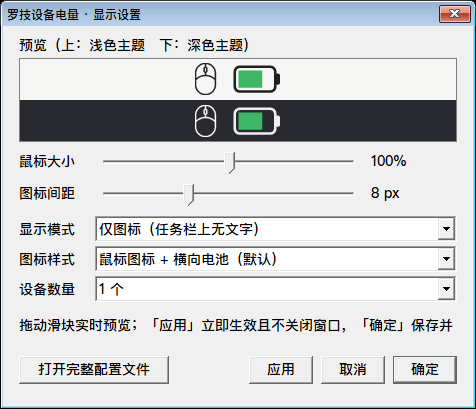
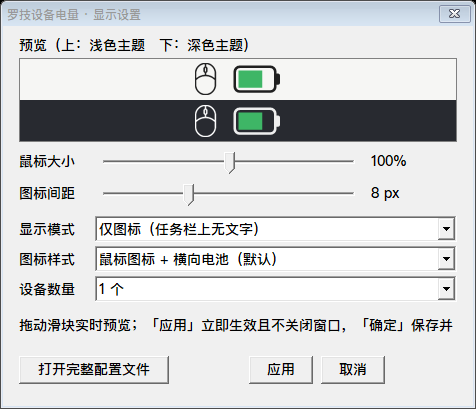
Add in-battery percentage mode (display_mode=3) and four number display options

Changed region(s): [[0.0, 0.0, 1.0, 1.0]]

diff --git a/src/battery_icon.cpp b/src/battery_icon.cpp
@@ -146,10 +146,34 @@ namespace {
         }
     }
 
+    // 电池内百分比：文字用主题色，描边取反色。
+    // 这样浅色主题是「黑字+白描边」、深色主题是「白字+黑描边」，
+    // 无论压在绿色/红色填充上还是落在空电池区域都清晰。
+    void DrawBatteryNumber(Gdiplus::Graphics& g, const Gdiplus::RectF& box,
+                           const wchar_t* text, float s, Gdiplus::Color ink) {
+        Gdiplus::FontFamily family(L"Segoe UI");
+        Gdiplus::GraphicsPath path;
+        Gdiplus::StringFormat sf;
+        sf.SetAlignment(Gdiplus::StringAlignmentCenter);
+        sf.SetLineAlignment(Gdiplus::StringAlignmentCenter);
+        if (path.AddString(text, -1, &family, Gdiplus::FontStyleBold,
+                           7.6f * s, box, &sf) != Gdiplus::Ok) return;
+        const int lum = (ink.GetR() * 299 + ink.GetG() * 587 + ink.GetB() * 114) / 1000;
+        Gdiplus::Color edge_col = (lum > 128)
+            ? Gdiplus::Color(190, 0, 0, 0)          // 亮色文字 → 深色描边
+            : Gdiplus::Color(190, 255, 255, 255);   // 暗色文字 → 亮色描边
+        Gdiplus::SolidBrush fill(ink);
+        Gdiplus::Pen edge(edge_col, 0.9f * s);
+        edge.SetLineJoin(Gdiplus::LineJoinRound);
+        // 先描边再填字：描边在底层，不会侵蚀笔画，浅色主题下细笔画才不发灰
+        g.DrawPath(&edge, &path);
+        g.FillPath(&fill, &path);
+    }
+
     // style 0：用户鼠标图标 + 留白 + 横向电池
     void DrawMouseAndBattery(Gdiplus::Graphics& g, float left, float cy, float s,
                              Gdiplus::Color ink, const Status& st, float gap,
-                             float mouse_scale) {
+                             float mouse_scale, bool number_inside) {
         Gdiplus::Pen pen(ink, 1.15f * s);
         pen.SetLineJoin(Gdiplus::LineJoinRound);
         pen.SetStartCap(Gdiplus::LineCapRound);
@@ -158,7 +182,9 @@ namespace {
 
         const float mh = 14.5f * s * mouse_scale;   // 默认略高于电池（11*s），比上一版 13*s 放大一点
         const float mw = mh * (float)kMouseW / (float)kMouseH;   // 保持原图宽高比
-        const float bw = 18.f * s, bh = 11.f * s;
+        // 电池内要放数字就得加宽加高，否则 18*11 的空间塞不下「100%+」
+        const float bw = (number_inside ? 34.f : 18.f) * s;
+        const float bh = (number_inside ? 12.f : 11.f) * s;
         const float cap_w = 2.4f * s, cap_h = 5.f * s;
 
         const float mx = left + 1.5f * s;
@@ -194,8 +220,19 @@ namespace {
         }
 
         const Gdiplus::RectF box(bx, by, bw, bh);
-        if (st.charging) DrawBolt(g, bx + bw * 0.47f, by + bh / 2.f, s, ink);
-        else if (!st.valid) DrawUnknown(g, box, s, ink);
+        if (number_inside) {
+            wchar_t txt[16] = {};
+            if (!st.valid || st.percent < 0)
+                swprintf_s(txt, L"?");
+            else
+                swprintf_s(txt, L"%d%%%s",
+                           (std::min)(100, (std::max)(0, st.percent)),
+                           st.charging ? L"+" : L"");
+            DrawBatteryNumber(g, box, txt, s, ink);
+        } else {
+            if (st.charging) DrawBolt(g, bx + bw * 0.47f, by + bh / 2.f, s, ink);
+            else if (!st.valid) DrawUnknown(g, box, s, ink);
+        }
     }
 
     // style 1：鼠标造型的电池，电量自下而上填充
@@ -277,7 +314,8 @@ namespace {
             w = 22.f;
         } else {
             const float mouse_w = 14.5f * opt.mouse_scale * (float)kMouseW / (float)kMouseH;
-            w = std::ceil(1.5f + mouse_w + (float)opt.gap + 18.f + 2.4f + 1.5f);
+            const float battery_w = opt.number_inside ? 34.f : 18.f;
+            w = std::ceil(1.5f + mouse_w + (float)opt.gap + battery_w + 2.4f + 1.5f);
         }
         if (opt.show_text) w += 36.f;
         return (int)w;
@@ -319,7 +357,7 @@ namespace {
             DrawMouseShapedBattery(g, left, cy, s, ink, status);
         else
             DrawMouseAndBattery(g, left, cy, s, ink, status,
-                                (float)opt.gap, opt.mouse_scale);
+                                (float)opt.gap, opt.mouse_scale, opt.number_inside);
 
         // 可选的百分比文字（默认关闭）
         if (opt.show_text && status.text && *status.text) {

diff --git a/src/OptionsDialog.cpp b/src/OptionsDialog.cpp
@@ -39,6 +39,17 @@ namespace {
     const wchar_t* const kHintApplied =
         L"已应用到任务栏。可继续调整，或点「确定」保存并关闭。";
 
+    // 下拉顺序与 display_mode 数值解耦：把新的「电池内数字」排到更顺手的位置，
+    // 同时保持 0/1/2 的旧语义不变（老配置文件不会串档）。
+    constexpr int kModeValues[4] = { 0, 3, 1, 2 };
+    int ModeFromIndex(int idx) {
+        return (idx >= 0 && idx < 4) ? kModeValues[idx] : 0;
+    }
+    int IndexFromMode(int mode) {
+        for (int i = 0; i < 4; ++i) if (kModeValues[i] == mode) return i;
+        return 0;
+    }
+
     RECT RectOf(int l, int t, int r, int b) { return RECT{ l, t, r, b }; }
     RECT PreviewLight() { return RectOf(16, 32, 454, 74); }
     RECT PreviewDark()  { return RectOf(16, 74, 454, 116); }
@@ -108,7 +119,7 @@ namespace {
     void ReadControls(Context* c) {
         c->v.mouse_scale = (int)SendMessageW(c->h_size, TBM_GETPOS, 0, 0);
         c->v.mouse_gap = (int)SendMessageW(c->h_gap, TBM_GETPOS, 0, 0);
-        c->v.display_mode = (int)SendMessageW(c->h_mode, CB_GETCURSEL, 0, 0);
+        c->v.display_mode = ModeFromIndex((int)SendMessageW(c->h_mode, CB_GETCURSEL, 0, 0));
         c->v.icon_style = (int)SendMessageW(c->h_style, CB_GETCURSEL, 0, 0);
         c->v.device_count = (int)SendMessageW(c->h_count, CB_GETCURSEL, 0, 0) + 1;
     }
@@ -148,6 +159,7 @@ namespace {
         o.mouse_scale = v.mouse_scale / 100.f;
         o.style = v.icon_style;
         o.show_text = (v.display_mode == 1);
+        o.number_inside = (v.display_mode == 3);
         icon::Status st;
         st.percent = v.preview_percent;
         st.valid = true;
@@ -210,9 +222,10 @@ namespace {
             c->h_mode = AddCtl(c, L"COMBOBOX", L"", CBS_DROPDOWNLIST | WS_VSCROLL,
                                92, 190, 362, 100, ID_MODE);
             AddComboItem(c->h_mode, L"仅图标（任务栏上无文字）");
-            AddComboItem(c->h_mode, L"图标 + 百分比数字");
+            AddComboItem(c->h_mode, L"电池内显示百分比（电池自动加宽）");
+            AddComboItem(c->h_mode, L"图标右侧显示百分比");
             AddComboItem(c->h_mode, L"纯文字（标签 + 数值）");
-            SendMessageW(c->h_mode, CB_SETCURSEL, (WPARAM)c->v.display_mode, 0);
+            SendMessageW(c->h_mode, CB_SETCURSEL, (WPARAM)IndexFromMode(c->v.display_mode), 0);
 
             AddCtl(c, L"STATIC", L"图标样式", SS_LEFT, 16, 224, 72, 20, 0);
             c->h_style = AddCtl(c, L"COMBOBOX", L"", CBS_DROPDOWNLIST | WS_VSCROLL,
@@ -270,7 +283,7 @@ namespace {
             const int id = LOWORD(w);
             const int code = HIWORD(w);
             if (id == ID_MODE && code == CBN_SELCHANGE) {
-                c->v.display_mode = (int)SendMessageW(c->h_mode, CB_GETCURSEL, 0, 0);
+                c->v.display_mode = ModeFromIndex((int)SendMessageW(c->h_mode, CB_GETCURSEL, 0, 0));
                 RestoreHint(c);
                 InvalidatePreview(h);
             } else if (id == ID_STYLE && code == CBN_SELCHANGE) {

diff --git a/src/LogiBatteryPlugin.cpp b/src/LogiBatteryPlugin.cpp
@@ -15,7 +15,7 @@ namespace {
     const wchar_t* const kPluginName = L"罗技设备电量";
     const wchar_t* const kPluginDesc = L"显示罗技鼠标/键盘的电池电量（通过 HID++ 协议读取）";
     const wchar_t* const kPluginAuthor = L"xb615381";
-    const wchar_t* const kPluginVersion = L"1.2.0";
+    const wchar_t* const kPluginVersion = L"1.3.0";
     const wchar_t* const kPluginUrl = L"https://github.com/xb615381/LogitechBatteryPlugin";
 
     const wchar_t* const kItemName[3] = { L"罗技设备1电量", L"罗技设备2电量", L"罗技设备3电量" };
@@ -152,6 +152,7 @@ icon::Options CLogiBatteryItem::IconOptions() const {
     icon::Options o;
     o.style = m_icon_style;
     o.show_text = (m_display_mode == 1);
+    o.number_inside = (m_display_mode == 3);
     o.gap = m_mouse_gap;
     o.mouse_scale = m_mouse_scale / 100.f;
     return o;
@@ -267,8 +268,9 @@ void CLogiBatteryPlugin::SaveDefaultConfig() const {
         L"; 本文件供高级配置；改完保存几秒内自动生效，不需要重启 TrafficMonitor\n"
         L"[general]\n"
         L"; 显示模式：0=仅图标（默认，鼠标+电池，任务栏上没有任何文字）\n"
-        L";          1=图标 + 百分比数字\n"
+        L";          1=图标 + 右侧百分比数字\n"
         L";          2=纯文字（标签 + 数值，退回主程序绘制）\n"
+        L";          3=百分比直接显示在电池内部（电池会自动加宽）\n"
         L"display_mode=0\n"
         L"; 图标样式：0=鼠标图标 + 横向电池（默认）\n"
         L";          1=鼠标造型电池，电量自下而上填充\n"
@@ -325,7 +327,7 @@ void CLogiBatteryPlugin::EnsureConfigKeys() const {
 
     struct Def { const char* key; const wchar_t* block; };
     static const Def defs[] = {
-        { "display_mode=", L"; 显示模式：0=仅图标（默认，任务栏无文字） 1=图标+百分比 2=纯文字\ndisplay_mode=0\n" },
+        { "display_mode=", L"; 显示模式：0=仅图标 1=图标+右侧数字 2=纯文字 3=电池内显示百分比\ndisplay_mode=0\n" },
         { "icon_style=",   L"; 图标样式：0=鼠标图标+横向电池 1=鼠标造型电池\nicon_style=0\n" },
         { "mouse_gap=",    L"; 鼠标图标与电池之间的留白（像素，8 约等于一个空格，范围 0~32）\nmouse_gap=8\n" },
         { "mouse_scale=",  L"; 鼠标图标大小（%，100 = 默认 14.5 px 高，范围 50~150）\nmouse_scale=100\n" },
@@ -376,7 +378,7 @@ void CLogiBatteryPlugin::LoadConfig() {
     wchar_t mode_key[32] = {};
     GetPrivateProfileStringW(L"general", L"display_mode", L"", mode_key, 32, path.c_str());
     m_config.display_mode = (mode_key[0] == L'\0')
-                          ? 0 : ClampInt(get_int(L"display_mode", 0), 0, 2);
+                          ? 0 : ClampInt(get_int(L"display_mode", 0), 0, 3);
     m_config.icon_style = ClampInt(get_int(L"icon_style", 0), 0, 1);
     m_config.mouse_gap = ClampInt(get_int(L"mouse_gap", 8), 0, 32);
     m_config.mouse_scale = ClampInt(get_int(L"mouse_scale", 100), 50, 150);

diff --git a/probe/preview.cpp b/probe/preview.cpp
@@ -18,6 +18,7 @@ struct Case {
     int style;
     bool show_text;
     const wchar_t* text;
+    bool inside = false;      // 百分比显示在电池内部
 };
 
 int main() {
@@ -53,7 +54,7 @@ int main() {
 
     g.DrawString(L"TrafficMonitor · 罗技鼠标电量图标", -1, &title,
                  RectF(24.f, 12.f, 600.f, 30.f), &sf, &ink_light);
-    g.DrawString(L"第一行：鼠标图标 + 留白 + 横向电池（默认）  ·  第二行：鼠标造型电池 / 图标+数值  ·  充电叠加闪电，低电量自动变色", -1, &sub,
+    g.DrawString(L"第一行：默认图标的电量状态  ·  第二行：多种数字显示方式（电池内 / 右侧 / 造型电池）  ·  充电叠加闪电，低电量自动变色", -1, &sub,
                  RectF(24.f, 42.f, 860.f, 20.f), &sf, &ink_light);
 
     const Case cases[] = {
@@ -65,12 +66,12 @@ int main() {
         { L"未读取到数据",       -1, false, false, 0, false, L"" },
     };
     const Case cases2[] = {
-        { L"鼠标造型 100%",     100, false, true,  1, false, L"" },
-        { L"鼠标造型 72%",       72, false, true,  1, false, L"" },
+        { L"电池内 76%",         76, false, true,  0, false, L"", true },
+        { L"电池内 充电 60%+",   60, true,  true,  0, false, L"", true },
+        { L"电池内 低电量 9%",    9, false, true,  0, false, L"", true },
+        { L"图标右侧 72%",       72, false, true,  0, true,  L"72%" },
+        { L"鼠标造型电池 100%", 100, false, true,  1, false, L"" },
         { L"鼠标造型 充电中",    60, true,  true,  1, false, L"" },
-        { L"鼠标造型 低电量",     9, false, true,  1, false, L"" },
-        { L"图标 + 百分比",      72, false, true,  0, true,  L"72%" },
-        { L"图标 + 充电数值",    60, true,  true,  0, true,  L"60%+" },
     };
 
     auto row = [&](const Case* list, float y0, bool on_dark, float scale, bool captions) {
@@ -82,6 +83,7 @@ int main() {
             icon::Options opt;
             opt.style = c.style;
             opt.show_text = c.show_text;
+            opt.number_inside = c.inside;
             icon::Status st;
             st.percent = c.percent;
             st.charging = c.charging;
@@ -125,6 +127,11 @@ int main() {
         icon::Draw(g, 450.f + i * 62.f, 432.f, 56.f, 36.f, 1.f,
                    RGB(235, 235, 235), true, st, opt);
     }
+    // 电池内数字的 1:1 效果
+    icon::Options in; in.style = 0; in.number_inside = true;
+    icon::Status st2; st2.percent = 76; st2.valid = true; st2.text = L"";
+    icon::Draw(g, 706.f, 432.f, 72.f, 36.f, 1.f,
+               RGB(235, 235, 235), true, st2, in);
 
     Status s = bmp.Save(L"build/icon_preview.png", &kPngEncoder, nullptr);
     printf("preview saved: %s (status=%d)\n", s == Ok ? "ok" : "FAILED", (int)s);

diff --git a/src/LogiBatteryPlugin.h b/src/LogiBatteryPlugin.h
@@ -51,7 +51,7 @@ private:
     int          m_percent = -1;
     bool         m_charging = false;
     bool         m_valid = false;
-    int          m_display_mode = 0;    // 0=纯图标 1=图标+百分比 2=纯文字
+    int          m_display_mode = 0;    // 0=纯图标 1=图标+数字 2=纯文字 3=电池内百分比
     int          m_icon_style = 0;      // 见 icon::Style
     int          m_mouse_gap = 8;       // 鼠标与电池之间的留白（px @96 DPI）
     int          m_mouse_scale = 100;   // 鼠标图标大小（%，100 = 14.5 px 高）
@@ -102,7 +102,7 @@ private:
         int  device_count = 1;           // 暴露几个显示项目
         int  warn_threshold = 10;        // 低电量提示阈值（%）
         int  warn_cooldown = 21600;      // 低电量提示冷却（秒）
-        int  display_mode = 0;           // 0=纯图标 1=图标+百分比 2=纯文字
+        int  display_mode = 0;           // 0=纯图标 1=图标+数字 2=纯文字 3=电池内百分比
         int  icon_style = 0;             // 0=鼠标+电池 1=鼠标造型电池
         int  mouse_gap = 8;              // 鼠标与电池之间的留白（px @96 DPI）
         int  mouse_scale = 100;          // 鼠标图标大小（%，50~150）

diff --git a/probe/dlgtest.cpp b/probe/dlgtest.cpp
@@ -81,6 +81,15 @@ int main() {
     HWND tb_gap = GetDlgItem(w, 102);
     HWND cb_mode = GetDlgItem(w, 103);
 
+    // 额外截一张「电池内显示百分比」模式，用来展示新选项
+    SendMessageW(cb_mode, CB_SETCURSEL, 1, 0);   // index 1 -> display_mode 3
+    PostMessageW(w, WM_COMMAND, MAKEWPARAM(103, CBN_SELCHANGE), (LPARAM)cb_mode);
+    Sleep(300);
+    Shot(w, L"build/options_dialog_inside.png");
+    SendMessageW(cb_mode, CB_SETCURSEL, 0, 0);
+    PostMessageW(w, WM_COMMAND, MAKEWPARAM(103, CBN_SELCHANGE), (LPARAM)cb_mode);
+    Sleep(150);
+
     auto apply = [&](int scale, int gap, int mode) {
         SendMessageW(tb_size, TBM_SETPOS, (WPARAM)TRUE, scale);
         PostMessageW(w, WM_HSCROLL, 0, (LPARAM)tb_size);

diff --git a/src/OptionsDialog.h b/src/OptionsDialog.h
@@ -16,7 +16,7 @@ namespace optsdlg {
     struct Values {
         int  mouse_scale = 100;      // 鼠标图标大小（%）
         int  mouse_gap = 8;          // 鼠标与电池的留白（px @96 DPI）
-        int  display_mode = 0;       // 0 仅图标 / 1 图标+数字 / 2 纯文字
+        int  display_mode = 0;       // 0 仅图标 / 1 图标+右侧数字 / 2 纯文字 / 3 电池内百分比
         int  icon_style = 0;         // 见 icon::Style
         int  device_count = 1;       // 显示几个设备项目
         int  preview_percent = 72;   // 预览用的示例电量（实际取当前设备读数）

diff --git a/src/battery_icon.h b/src/battery_icon.h
@@ -23,6 +23,7 @@ namespace icon {
     struct Options {
         int  style = kMouseAndBattery;
         bool show_text = false;     // 图标右侧附带百分比文字（默认关闭）
+        bool number_inside = false; // 直接在电池内部画百分比（电池会自动加宽）
         int  gap = 8;               // 鼠标与电池之间的留白（96 DPI 下的像素，约一个空格）
         float mouse_scale = 1.0f;   // 鼠标图标缩放系数（1.0 = 14.5 px 高）
     };

diff --git a/README.md b/README.md
@@ -13,6 +13,7 @@
 | | |
 |---|---|
 | 纯图标 | 任务栏上一个字都没有；鼠标线稿 + 手机电池式电量条 |
+| 四种数字方式 | 不显示 / **电池内显示百分比** / 图标右侧显示 / 纯文字，随时在设置窗口切换 |
 | 一眼看懂 | 电量从左往右填充，>35% 绿 / 15~35% 橙 / ≤15% 红，充电中叠加闪电 |
 | 实时读取 | HID++ 2.0 特性 `0x1000` → `0x1004` → `0x1001` → 1.0 寄存器四级回退，覆盖新老设备 |
 | 主题适配 | 鼠标线条跟随主程序文字色，浅色黑线 / 深色白线；DPI 自适应 |
@@ -37,12 +38,16 @@
 
 不需要手改配置文件。窗口里：
 
+选「电池内显示百分比」时，电池会自动加宽并在内部显示数值：
+
+![电池内显示百分比](docs/options_dialog_inside.png)
+
 | 控件 | 作用 |
 |---|---|
 | 预览区 | 浅色 / 深色主题各一行，拖动滑块立即看到效果 |
 | 鼠标大小 | 50~150%，默认 100%（约 14.5 px 高） |
 | 图标间距 | 0~24 px，默认 8（约一个空格宽） |
-| 显示模式 | 仅图标 / 图标+百分比 / 纯文字 |
+| 显示模式 | 仅图标 / **电池内显示百分比** / 图标右侧显示百分比 / 纯文字，共 4 种 |
 | 图标样式 | 鼠标 + 横向电池 / 鼠标造型电池 |
 | 设备数量 | 1~3 个 |
 | **应用** | 立即写回并刷新任务栏，**窗口不关闭**，可反复调整 |
@@ -57,7 +62,7 @@
 
 | 键 | 默认 | 说明 |
 |---|---|---|
-| `display_mode` | `0` | 0 仅图标 / 1 图标+数字 / 2 纯文字 |
+| `display_mode` | `0` | 0 仅图标 / 1 图标右侧数字 / 2 纯文字 / **3 电池内显示百分比** |
 | `icon_style` | `0` | 0 鼠标+电池 / 1 鼠标造型电池 |
 | `mouse_scale` | `100` | 鼠标图标大小（%），50~150 |
 | `mouse_gap` | `8` | 鼠标与电池的留白（px @96 DPI），0~32 |
@@ -106,6 +111,8 @@ Visual Studio 手动建工程：把 `src` 下所有 `.cpp/.h` 加进「动态链
 **插件列表里看不到？** DLL 位数和主程序不一致，或没放在主程序目录下的 `plugins\`。
 
 **图标一直是问号？** 接收器没插、设备关机/休眠，或设备不上报电池。先看悬停提示；首次启动前 2~3 秒也是问号。
+
+**能把百分比直接显示在电池里吗？** 可以。设置窗口「显示模式」选「电池内显示百分比」，或 ini 设 `display_mode=3`。电池会自动加宽以容纳 `100%+`；充电时数字带 `+`，读不到数据显示 `?`，数字带描边以保证深浅主题和不同填充色下都清晰。
 
 **和 G HUB 冲突吗？** 不冲突，实测可同时读取。
 

diff --git a/CHANGELOG.md b/CHANGELOG.md
@@ -1,5 +1,14 @@
 # 更新日志
 
+## 1.3.0
+
+- **新增「电池内显示百分比」**：`display_mode=3`，或设置窗口「显示模式」里选第二项
+- 数字显示现在共 4 种可选：仅图标 / 电池内 / 图标右侧 / 纯文字；下拉顺序做了映射，旧的 0/1/2 语义不变，老配置不会串档
+- 电池内模式下电池自动加宽加高（34×12 px @96 DPI），数字用**主题色文字 + 反色描边**（浅色主题黑字白边 / 深色主题白字黑边），并采用「先描边、后填字」保证笔画不被侵蚀；绿色/红色填充与空电池区域下都清晰
+- 充电时数字带 `+`（如 `60%+`），读不到数据显示 `?`；该模式不再叠闪电/问号，避免拥挤
+- `BaseWidth()` 随模式自适应，任务栏不会被裁切；设置窗口实时预览同步支持新模式
+- 预览图第二行改为集中展示多种数字显示方式，并加入 1:1 的电池内数字示例
+
 ## 1.2.0
 
 **图形化设置**
